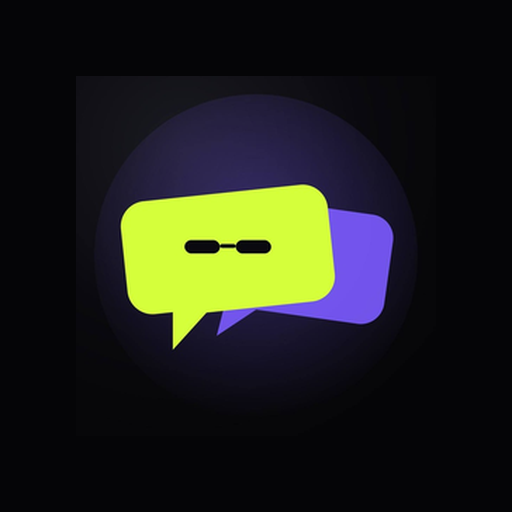
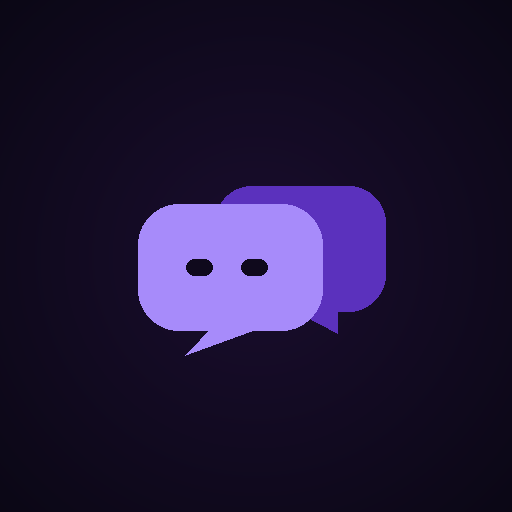
Rebrand site to Pople with a purple-black theme
- Site name changed from "Almau Messenger" to "Pople" in all visible
  text: title, logo wordmark, meta tags, manifest, partner badges,
  footer, and the OTP email subject/sender name. University name
  (AlmaU) and infra identifiers (bot username, domains, repo) are
  left untouched per product decision.
- Replaced the lime-green accent with a purple palette (--acc/--acc2)
  across the site; regenerated the icon set (logo, favicon, apple
  touch icon, PWA icons) to match.
- Made the "Войти / Регистрация" button visible at entry on both
  mobile and desktop (was hidden under 520px) and reworded nav/hero
  CTAs to make clear registration gates anonymous chat and event
  "Иду" marks, which already required an account server-side.

Claude-Session: https://claude.ai/code/session_01U3dqDQPDKGVj6FP65BdqTt

Changed region(s): [[0.2188, 0.1875, 0.9062, 0.9062], [0.3125, 0.0938, 0.6875, 0.1562], [0.0938, 0.3125, 0.1562, 0.6875]]

diff --git a/site/index.html b/site/index.html
@@ -3,7 +3,7 @@
 <head>
 <meta charset="UTF-8">
 <meta name="viewport" content="width=device-width, initial-scale=1, viewport-fit=cover">
-<title>Мессенджер университета Almau</title>
+<title>Pople — анонимный чат для студентов AlmaU</title>
 <link rel="icon" type="image/png" href="img/favicon.png">
 <link rel="apple-touch-icon" href="img/apple-touch-icon.png">
 <link rel="manifest" href="manifest.json">
@@ -11,11 +11,11 @@
 <meta name="mobile-web-app-capable" content="yes">
 <meta name="apple-mobile-web-app-capable" content="yes">
 <meta name="apple-mobile-web-app-status-bar-style" content="black-translucent">
-<meta name="apple-mobile-web-app-title" content="Almau">
+<meta name="apple-mobile-web-app-title" content="Pople">
 <link rel="preconnect" href="https://fonts.googleapis.com">
 <link href="https://fonts.googleapis.com/css2?family=Unbounded:wght@500;700;800&family=Manrope:wght@400;500;700&display=swap" rel="stylesheet">
 <style>
-:root{--bg:#050507;--panel:#101014;--line:#23232b;--text:#f2f2f5;--mute:#8d8d9a;--acc:#d4ff3a;--acc2:#7b5cff;
+:root{--bg:#050507;--panel:#13101c;--line:#2a2436;--text:#f2f2f5;--mute:#9c93ad;--acc:#a78bfa;--acc2:#5b31bd;
  box-sizing:border-box;padding-top:env(safe-area-inset-top,0px);padding-bottom:env(safe-area-inset-bottom,0px)}
 *,*:before,*:after{box-sizing:inherit}
 html{scroll-padding-top:env(safe-area-inset-top,0px)}
@@ -91,7 +91,7 @@ code{background:#1c1c24;padding:2px 7px;border-radius:6px;color:var(--acc)}
 .ev .who{font-size:13px;color:var(--mute)}
 .ev .btn{align-self:flex-start}
 .empty{color:var(--mute);border:1px dashed var(--line);border-radius:22px;padding:28px;text-align:center}
-.cta{border-radius:28px;padding:48px 28px;text-align:center;background:radial-gradient(circle at 30% 0,rgba(123,92,255,.45),transparent 60%),var(--panel);border:1px solid var(--line)}
+.cta{border-radius:28px;padding:48px 28px;text-align:center;background:radial-gradient(circle at 30% 0,rgba(91,49,189,.5),transparent 60%),var(--panel);border:1px solid var(--line)}
 .cta h2{font-size:clamp(26px,3.6vw,44px);margin-bottom:14px}.cta p{color:var(--mute);margin:0 0 26px}
 .stats-bar{display:flex;gap:32px;flex-wrap:wrap;margin:28px 0 0}
 .stats-bar div{display:flex;flex-direction:column;gap:4px}
@@ -145,22 +145,22 @@ details.lesson ul{margin:0;padding:0 20px 18px 40px;color:#dcdce4;display:grid;g
 .chat-input .btn{border:none;cursor:pointer;padding:12px 22px}
 .chat-input #photo-btn{border-radius:999px;padding:10px 14px;cursor:pointer;font-size:17px;flex:none}
 .msg img{max-width:100%;border-radius:12px;display:block}
-.msg.reveal{align-self:center;background:rgba(212,255,58,.12);border:1px solid var(--acc);color:var(--acc);font-weight:700;font-size:14px;border-radius:14px}
+.msg.reveal{align-self:center;background:rgba(167,139,250,.16);border:1px solid var(--acc);color:var(--acc);font-weight:700;font-size:14px;border-radius:14px}
 .empty .btn{margin-top:14px}
 footer{border-top:1px solid var(--line);color:var(--mute);font-size:14px;padding:28px 0 40px}
 @media(max-width:900px){.hero{grid-template-columns:1fr}.steps{grid-template-columns:1fr 1fr}.feat{grid-template-columns:1fr}.tile.wide{grid-column:auto}}
-@media(max-width:520px){.steps{grid-template-columns:1fr}nav .btn{display:none}}
+@media(max-width:520px){.steps{grid-template-columns:1fr}nav .btn{padding:8px 14px;font-size:13px}}
 </style>
 </head>
 <body>
 <nav><div class="wrap">
- <a href="#home" class="logo"><img src="img/logo.png" alt=""><span>almau<b>.chat</b></span></a>
+ <a href="#home" class="logo"><img src="img/logo.png" alt=""><span>Pop<b>le</b></span></a>
  <a class="tab" href="#home" data-p="home">О проекте</a>
  <a class="tab" href="#clubs" data-p="clubs">Студенческие клубы</a>
  <a class="tab" href="#events" data-p="events">Ивенты</a>
  <a class="tab" href="#summit" data-p="summit">🏔 Summit Seekers</a>
  <a class="tab" href="#chat" data-p="chat">💬 Анонимный чат</a>
- <a class="btn" href="#chat">Открыть чат</a>
+ <a class="btn" href="#chat">Войти / Регистрация</a>
 </div></nav>
 
 <main class="wrap">
@@ -169,11 +169,12 @@ footer{border-top:1px solid var(--line);color:var(--mute);font-size:14px;padding
  <div class="hero">
   <div>
    <h1>Пиши первым. Никто не узнает, кто ты.</h1>
-   <p>Мессенджер университета Almau — анонимный чат прямо на сайте для студентов AlmaU. Регистрируешься один раз, дальше — одна кнопка, и ты в разговоре с новым человеком. Захочешь познакомиться ближе — раскрой личность прямо в чате.</p>
+   <p>Pople — анонимный чат прямо на сайте для студентов AlmaU. Регистрируешься один раз, дальше — одна кнопка, и ты в разговоре с новым человеком. Захочешь познакомиться ближе — раскрой личность прямо в чате.</p>
    <div class="actions">
-    <a class="btn" href="#chat">Начать общение</a>
-    <a class="btn ghost" href="#events">Найти компанию на ивент</a>
+    <a class="btn" href="#chat">Войти / Регистрация</a>
+    <a class="btn ghost" href="#events">Смотреть ивенты</a>
    </div>
+   <p style="color:var(--mute);font-size:14px;margin:14px 0 0">Без регистрации анонимный чат и отметки «Иду» на ивентах недоступны — регистрация нужна один раз.</p>
    <div class="stats-bar" id="stats" aria-live="polite"></div>
   </div>
   <div class="chat" aria-label="Пример анонимного диалога">
@@ -218,7 +219,7 @@ footer{border-top:1px solid var(--line);color:var(--mute);font-size:14px;padding
   <div class="head"><div><h2>Партнёры</h2><p>Клубы, которые работают с нами: афиша мероприятий и отметки «Иду» идут прямо через приложение.</p></div></div>
   <a class="partner-card" href="#summit">
    <img src="img/clubs/summit.jpg" alt="Логотип Summit Seekers">
-   <div><span class="partner-badge">🤝 Партнёр Almau Messenger</span><h3>Summit Seekers</h3>
+   <div><span class="partner-badge">🤝 Партнёр Pople</span><h3>Summit Seekers</h3>
    <p>Горный клуб AlmaU: походы выходного дня и лекции о безопасном туризме.</p></div>
    <span class="btn sm">Смотреть походы</span>
   </a>
@@ -235,7 +236,7 @@ footer{border-top:1px solid var(--line);color:var(--mute);font-size:14px;padding
   </form>
  </section>
 
- <section><div class="cta"><img class="mark" src="img/logo.png" alt="Логотип Almau Messenger"><h2>Твой следующий друг уже онлайн</h2><p>Один клик, и ты в разговоре.</p><a class="btn" href="#chat">Открыть чат</a></div></section>
+ <section><div class="cta"><img class="mark" src="img/logo.png" alt="Логотип Pople"><h2>Твой следующий друг уже онлайн</h2><p>Один клик, и ты в разговоре.</p><a class="btn" href="#chat">Открыть чат</a></div></section>
 </div>
 
 <!-- CLUBS -->
@@ -252,7 +253,7 @@ footer{border-top:1px solid var(--line);color:var(--mute);font-size:14px;padding
  <div class="club-hero">
   <img src="img/clubs/summit.jpg" alt="Логотип Summit Seekers">
   <div>
-   <span class="partner-badge">🤝 Партнёр Almau Messenger</span>
+   <span class="partner-badge">🤝 Партнёр Pople</span>
    <h1>Summit Seekers</h1>
    <p>Горный клуб AlmaU: безопасный туризм, выносливость, командная работа и бережное отношение к природе. Лекции о туризме и походы в горы.</p>
    <div class="actions">
@@ -292,7 +293,7 @@ footer{border-top:1px solid var(--line);color:var(--mute);font-size:14px;padding
   <div id="lessons"></div>
  </section>
 
- <section><div class="cta"><img class="mark" src="img/clubs/summit.jpg" alt="Логотип Summit Seekers"><h2>Идёте в горы с Summit Seekers?</h2><p>Summit Seekers — партнёр Almau Messenger.</p><a class="btn ghost" href="https://instagram.com/summit.seekers.almau" target="_blank" rel="noopener">Instagram клуба</a></div></section>
+ <section><div class="cta"><img class="mark" src="img/clubs/summit.jpg" alt="Логотип Summit Seekers"><h2>Идёте в горы с Summit Seekers?</h2><p>Summit Seekers — партнёр Pople.</p><a class="btn ghost" href="https://instagram.com/summit.seekers.almau" target="_blank" rel="noopener">Instagram клуба</a></div></section>
 </div>
 
 <!-- EVENTS -->
@@ -378,7 +379,7 @@ footer{border-top:1px solid var(--line);color:var(--mute);font-size:14px;padding
 </div>
 </main>
 
-<footer><div class="wrap">Мессенджер университета Almau — студенческий проект. Не является официальным ресурсом Almaty Management University.</div></footer>
+<footer><div class="wrap">Pople — студенческий проект для AlmaU. Не является официальным ресурсом Almaty Management University.</div></footer>
 
 <script>
 // Адрес бэкенда (bot/api_server.py) — отдельный сервис, задеплоенный независимо от бота.
@@ -413,7 +414,7 @@ function clubTile(c) {
   return `<article class="tile ${c.wide ? "wide" : ""}"><div class="art" style="background:${G(c.colors)}"></div>${badge(c.logo, c.emoji, c.name)}
     ${c.instagram ? `<a class="ig" href="https://instagram.com/${esc(c.instagram)}" target="_blank" rel="noopener">@${esc(c.instagram)}</a>` : ""}
     <h3>${esc(c.name)}</h3><p>${esc(c.description)}</p>
-    <div class="chips">${c.partner ? `<span>🤝 Партнёр Almau Messenger</span>` : ""}${c.activities.map(x => `<span>${esc(x)}</span>`).join("")}</div>
+    <div class="chips">${c.partner ? `<span>🤝 Партнёр Pople</span>` : ""}${c.activities.map(x => `<span>${esc(x)}</span>`).join("")}</div>
     ${c.partner ? `<a class="btn sm" href="${esc(c.page || "#summit")}">🏔 Походы и запись</a>` : ""}</article>`;
 }
 

diff --git a/bot/web_chat.py b/bot/web_chat.py
@@ -93,9 +93,9 @@ async def _send_otp_email(app: web.Application, to_email: str, code: str) -> Non
                        to_email, code)
         return
     payload = {
-        "sender": {"name": app.get("brevo_sender_name") or "Almau Messenger", "email": sender_email},
+        "sender": {"name": app.get("brevo_sender_name") or "Pople", "email": sender_email},
         "to": [{"email": to_email}],
-        "subject": "Код входа в Almau Messenger",
+        "subject": "Код входа в Pople",
         "htmlContent": (f"<p>Твой код для входа: <b>{code}</b></p>"
                         f"<p>Код действует 10 минут. Если это были не вы — просто проигнорируй письмо.</p>"),
     }
@@ -478,7 +478,7 @@ async def chat_stop(request: web.Request) -> web.Response:
 
 
 def register_routes(app: web.Application, brevo_api_key: str = "", brevo_sender_email: str = "",
-                     brevo_sender_name: str = "Almau Messenger") -> None:
+                     brevo_sender_name: str = "Pople") -> None:
     app["web_mm"] = WebMatchmaker()
     app["brevo_api_key"] = brevo_api_key
     app["brevo_sender_email"] = brevo_sender_email

diff --git a/bot/config.py b/bot/config.py
@@ -33,7 +33,7 @@ class Config:
     telegram_api_url: str = ""                      # свой Bot API сервер или заглушка в тестах; обычно пусто
     brevo_api_key: str = ""                          # код входа по почте шлётся через Brevo; пусто — код только в логах
     brevo_sender_email: str = ""                     # подтверждённый отправитель в Brevo
-    brevo_sender_name: str = "Almau Messenger"
+    brevo_sender_name: str = "Pople"
 
 
 def load_config() -> Config:
@@ -56,5 +56,5 @@ def load_config() -> Config:
         telegram_api_url=os.getenv("TELEGRAM_API_URL", ""),
         brevo_api_key=os.getenv("BREVO_API_KEY", ""),
         brevo_sender_email=os.getenv("BREVO_SENDER_EMAIL", ""),
-        brevo_sender_name=os.getenv("BREVO_SENDER_NAME", "Almau Messenger"),
+        brevo_sender_name=os.getenv("BREVO_SENDER_NAME", "Pople"),
     )

diff --git a/bot/api.py b/bot/api.py
@@ -174,7 +174,7 @@ async def get_leads(request: web.Request) -> web.Response:
 def build_app(db: Database, content: Content, bot: Bot | None = None,
               admin_ids: frozenset[int] = frozenset(), cors_origin: str = "*",
               admin_token: str = "", brevo_api_key: str = "", brevo_sender_email: str = "",
-              brevo_sender_name: str = "Almau Messenger") -> web.Application:
+              brevo_sender_name: str = "Pople") -> web.Application:
     # client_max_size поднят под base64-фото в чате (MAX_PHOTO_BYTES в web_chat.py + накладные
     # расходы base64/JSON — дефолтных 1 МБ aiohttp на это не хватит).
     app = web.Application(middlewares=[_cors_middleware(cors_origin)], client_max_size=8 * 1024 * 1024)

diff --git a/bot/api_server.py b/bot/api_server.py
@@ -32,7 +32,7 @@ async def main() -> None:
     admin_token = os.getenv("ADMIN_TOKEN", "")
     brevo_api_key = os.getenv("BREVO_API_KEY", "")
     brevo_sender_email = os.getenv("BREVO_SENDER_EMAIL", "")
-    brevo_sender_name = os.getenv("BREVO_SENDER_NAME", "Almau Messenger")
+    brevo_sender_name = os.getenv("BREVO_SENDER_NAME", "Pople")
 
     db, content = Database(db_path), Content(data_dir)
     db.hikes.seed(content.hikes_seed)
